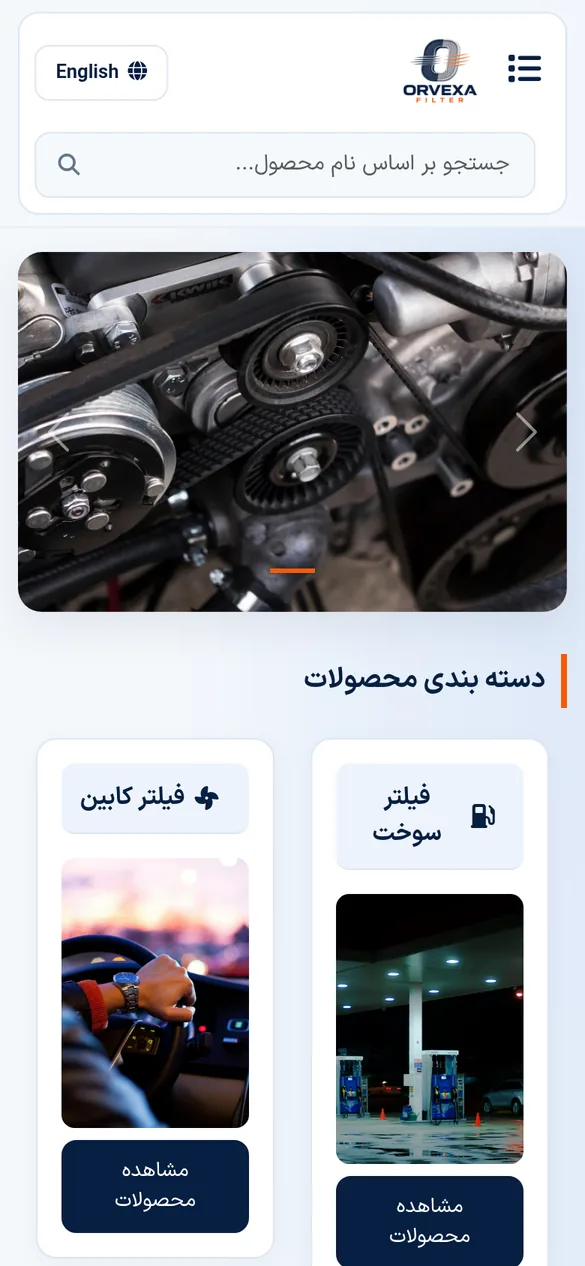
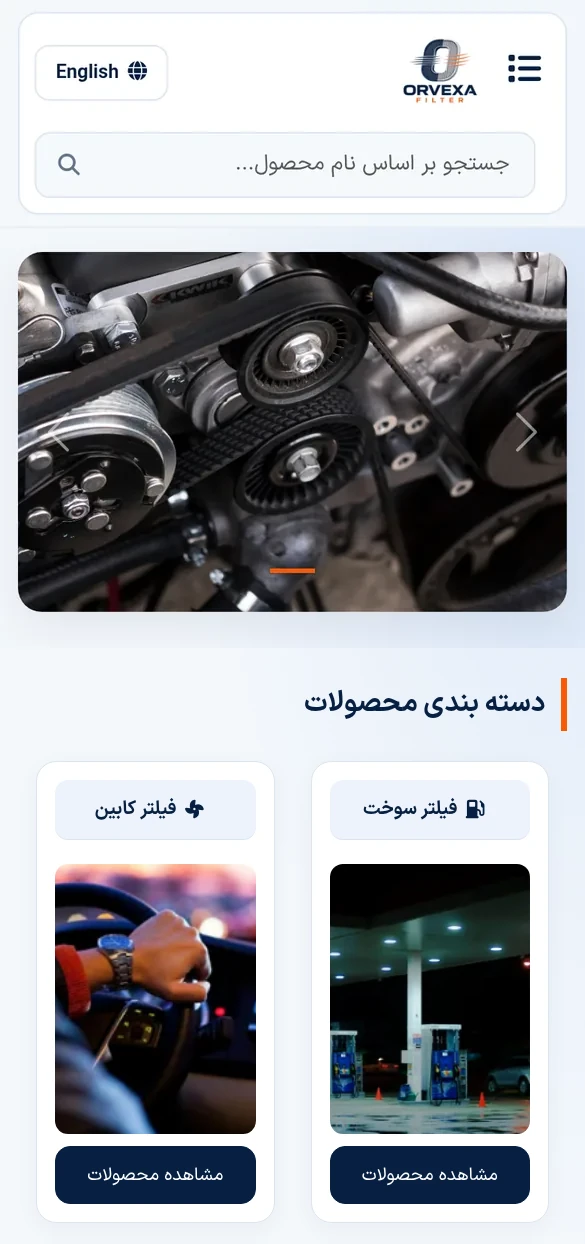
Replace Shemroon menu and Orvexa mobile gallery photos.

diff --git a/index.html b/index.html
@@ -218,7 +218,7 @@
           <span class="frame frame-desk"><span class="frame-bar" aria-hidden="true"><i></i><i></i><i></i></span>
             <img src="images/projects/orvexa-1.webp" width="1400" height="875" loading="lazy" decoding="async" alt="صفحه اصلی فارسی سایت اُروکسا فیلتر" data-fa-alt="صفحه اصلی فارسی سایت اُروکسا فیلتر" data-en-alt="Orvexa Filter Persian home page">
           </span>
-          <span class="frame frame-phone"><img src="images/projects/orvexa-m.webp" width="585" height="1266" loading="lazy" decoding="async" alt="نسخه موبایل اُروکسا فیلتر" data-fa-alt="نسخه موبایل اُروکسا فیلتر" data-en-alt="Orvexa Filter on mobile"></span>
+          <span class="frame frame-phone"><img src="images/projects/orvexa-m.webp" width="585" height="1244" loading="lazy" decoding="async" alt="نسخه موبایل اُروکسا فیلتر" data-fa-alt="نسخه موبایل اُروکسا فیلتر" data-en-alt="Orvexa Filter on mobile"></span>
           <span class="card-zoom"><svg viewBox="0 0 24 24" aria-hidden="true"><path d="M4 9V4h5M20 9V4h-5M4 15v5h5M20 15v5h-5"/></svg><span data-l="fa">جزئیات و تصاویر</span><span data-l="en" lang="en">Details & screenshots</span><b><span data-l="fa">۴ تصویر</span><span data-l="en" lang="en">4 images</span></b></span>
         </button>
       </div>
@@ -237,7 +237,7 @@
         <p class="note"><span data-l="fa">اُروکسا یک برند خیالی است؛ این نسخه نمونهکار بر پایه یک پروژه واقعی و با دادههای نمونه ساخته شده است. لینک نسخه زنده بعد از انتشار اضافه میشود.</span><span data-l="en" lang="en">Orvexa is a fictional brand. This portfolio version is based on a real project and uses sample data. A live demo link will be added once it is deployed.</span></p>
       </div>
       <template class="detail">
-        <div class="gallery"><figure><img src="images/projects/orvexa-1.webp" width="1400" height="875" loading="lazy" decoding="async" alt="صفحه اصلی فارسی (راستبهچپ)" data-fa-alt="صفحه اصلی فارسی (راستبهچپ)" data-en-alt="Persian home page (RTL)"><figcaption><span data-l="fa">صفحه اصلی فارسی (راستبهچپ)</span><span data-l="en" lang="en">Persian home page (RTL)</span></figcaption></figure><figure><img src="images/projects/orvexa-2.webp" width="1400" height="875" loading="lazy" decoding="async" alt="صفحه اصلی انگلیسی (چپبهراست)" data-fa-alt="صفحه اصلی انگلیسی (چپبهراست)" data-en-alt="English home page (LTR)"><figcaption><span data-l="fa">صفحه اصلی انگلیسی (چپبهراست)</span><span data-l="en" lang="en">English home page (LTR)</span></figcaption></figure><figure><img src="images/projects/orvexa-3.webp" width="1400" height="875" loading="lazy" decoding="async" alt="داشبورد پنل مدیریت" data-fa-alt="داشبورد پنل مدیریت" data-en-alt="Admin panel dashboard"><figcaption><span data-l="fa">داشبورد پنل مدیریت</span><span data-l="en" lang="en">Admin panel dashboard</span></figcaption></figure><figure><img src="images/projects/orvexa-m.webp" width="585" height="1266" loading="lazy" decoding="async" alt="نسخه موبایل" data-fa-alt="نسخه موبایل" data-en-alt="Mobile view"><figcaption><span data-l="fa">نسخه موبایل</span><span data-l="en" lang="en">Mobile view</span></figcaption></figure></div>
+        <div class="gallery"><figure><img src="images/projects/orvexa-1.webp" width="1400" height="875" loading="lazy" decoding="async" alt="صفحه اصلی فارسی (راستبهچپ)" data-fa-alt="صفحه اصلی فارسی (راستبهچپ)" data-en-alt="Persian home page (RTL)"><figcaption><span data-l="fa">صفحه اصلی فارسی (راستبهچپ)</span><span data-l="en" lang="en">Persian home page (RTL)</span></figcaption></figure><figure><img src="images/projects/orvexa-2.webp" width="1400" height="875" loading="lazy" decoding="async" alt="صفحه اصلی انگلیسی (چپبهراست)" data-fa-alt="صفحه اصلی انگلیسی (چپبهراست)" data-en-alt="English home page (LTR)"><figcaption><span data-l="fa">صفحه اصلی انگلیسی (چپبهراست)</span><span data-l="en" lang="en">English home page (LTR)</span></figcaption></figure><figure><img src="images/projects/orvexa-3.webp" width="1400" height="875" loading="lazy" decoding="async" alt="داشبورد پنل مدیریت" data-fa-alt="داشبورد پنل مدیریت" data-en-alt="Admin panel dashboard"><figcaption><span data-l="fa">داشبورد پنل مدیریت</span><span data-l="en" lang="en">Admin panel dashboard</span></figcaption></figure><figure><img src="images/projects/orvexa-m.webp" width="585" height="1244" loading="lazy" decoding="async" alt="نسخه موبایل" data-fa-alt="نسخه موبایل" data-en-alt="Mobile view"><figcaption><span data-l="fa">نسخه موبایل</span><span data-l="en" lang="en">Mobile view</span></figcaption></figure></div>
       </template>
     </article>
 
@@ -317,7 +317,7 @@
     <ul class="tags"><li lang="en">HTML</li><li lang="en">CSS</li><li lang="en">JavaScript</li></ul>
     <div class="plinks"><a class="plink" href="https://drive.google.com/file/d/1Xz5y0dBFn6uMH4gj9Vd8fvgeyAGI7bkj/view?usp=drive_link" target="_blank" rel="noopener"><svg viewBox="0 0 24 24" aria-hidden="true"><path d="M14 3H7a2 2 0 0 0-2 2v14a2 2 0 0 0 2 2h10a2 2 0 0 0 2-2V8z"/><path d="M14 3v5h5M9 13h6M9 17h4"/></svg><span data-l="fa">فایل معرفی (PDF)</span><span data-l="en" lang="en">Document (PDF)</span><span class="sr-only"><span data-l="fa"> (در پنجره جدید)</span><span data-l="en" lang="en"> (opens in a new tab)</span></span></a></div>
   </div>
-  <template class="detail"><ul class="points"><li><span data-l="fa">معرفی رستوران در پنجره «درباره» و انتخاب شعبه</span><span data-l="en" lang="en">Restaurant info in an “About” window and branch selection</span></li><li><span data-l="fa">افزودن غذا به سبد خرید با تعداد دلخواه</span><span data-l="en" lang="en">Add dishes to the cart in any quantity</span></li></ul><div class="gallery"><figure><img src="images/projects/shemroon-1.webp" width="1400" height="593" loading="lazy" decoding="async" alt="سربرگ و بنر صفحه اصلی" data-fa-alt="سربرگ و بنر صفحه اصلی" data-en-alt="Header and banner of the home page"><figcaption><span data-l="fa">سربرگ و بنر صفحه اصلی</span><span data-l="en" lang="en">Header and banner of the home page</span></figcaption></figure><figure><img src="images/projects/shemroon-2.webp" width="1354" height="761" loading="lazy" decoding="async" alt="منوی سفارش با دستهبندی و جستجو" data-fa-alt="منوی سفارش با دستهبندی و جستجو" data-en-alt="Ordering menu with categories and search"><figcaption><span data-l="fa">منوی سفارش با دستهبندی و جستجو</span><span data-l="en" lang="en">Ordering menu with categories and search</span></figcaption></figure></div></template>
+  <template class="detail"><ul class="points"><li><span data-l="fa">معرفی رستوران در پنجره «درباره» و انتخاب شعبه</span><span data-l="en" lang="en">Restaurant info in an “About” window and branch selection</span></li><li><span data-l="fa">افزودن غذا به سبد خرید با تعداد دلخواه</span><span data-l="en" lang="en">Add dishes to the cart in any quantity</span></li></ul><div class="gallery"><figure><img src="images/projects/shemroon-1.webp" width="1400" height="593" loading="lazy" decoding="async" alt="سربرگ و بنر صفحه اصلی" data-fa-alt="سربرگ و بنر صفحه اصلی" data-en-alt="Header and banner of the home page"><figcaption><span data-l="fa">سربرگ و بنر صفحه اصلی</span><span data-l="en" lang="en">Header and banner of the home page</span></figcaption></figure><figure><img src="images/projects/shemroon-2.webp" width="1026" height="590" loading="lazy" decoding="async" alt="منوی سفارش با دستهبندی و جستجو" data-fa-alt="منوی سفارش با دستهبندی و جستجو" data-en-alt="Ordering menu with categories and search"><figcaption><span data-l="fa">منوی سفارش با دستهبندی و جستجو</span><span data-l="en" lang="en">Ordering menu with categories and search</span></figcaption></figure></div></template>
 </article>
 <article class="card reveal" id="p-taxi" data-project="taxi">
   <button class="card-media" type="button" data-open="taxi" aria-haspopup="dialog">
